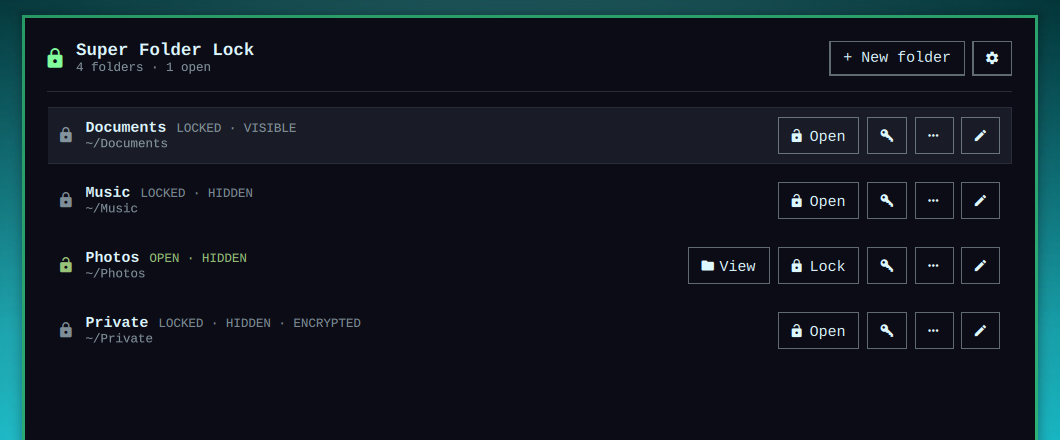
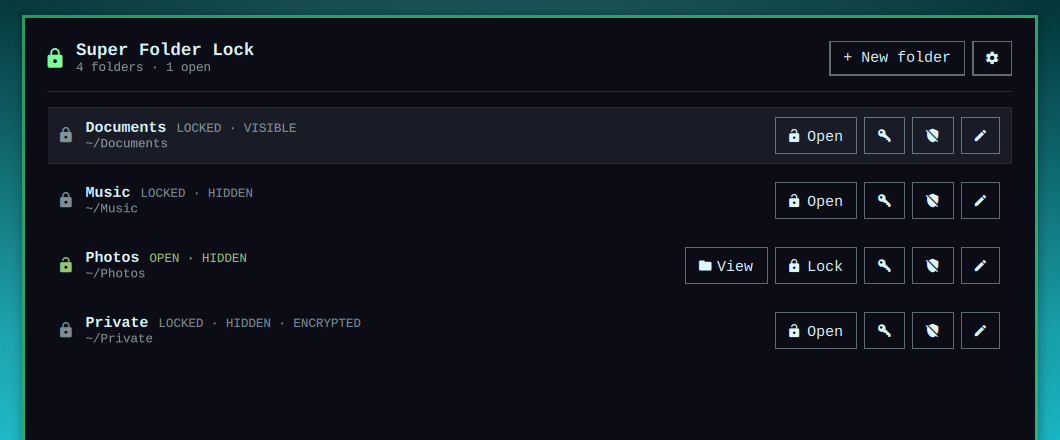
README for 0.2.0: new recordings and screenshots, updated text

diff --git a/README.md b/README.md
@@ -22,7 +22,7 @@ ten files or with a hundred thousand.
 ![A folder with photos is chosen, given a password, and disappears from its place](docs/demo/hide.gif)
 
 **Type its password and it is back.** The window asks for your system password before it lists anything;
-then each folder opens with its own. Opening it shows it in Files, where it was, with everything in it.
+then each folder opens with its own and, unless you turn that off, shows up in Files with everything in it.
 
 ![The system password opens the window, the folder password opens the folder, and Files shows its photos](docs/demo/unlock.gif)
 
@@ -41,10 +41,10 @@ gocryptfs vault, which only its password opens, on any computer. It hands you a 
 
 ![An encrypted folder is created, its recovery key is shown, and on the disk its files have unreadable names](docs/demo/encrypt.gif)
 
-**Change your mind whenever you want.** *Remove protection* gives you back a normal folder, with every
-file in it, and takes it off the list. No folder leaves the list while it is still locked.
+**Change your mind whenever you want.** The shield button, *Remove protection*, asks for its
+password and gives you back a normal folder. Only then does it leave the list: nothing stays locked unseen.
 
-![Remove protection asks for the password and the folder is a normal one again](docs/demo/remove.gif)
+![The shield button asks for the password; the folder is a normal one again and is no longer in the list](docs/demo/remove.gif)
 
 ## Two lock types
 
@@ -60,7 +60,7 @@ file in it, and takes it off the list. No folder leaves the list while it is sti
 While locked, a folder of either type can be **Not shown** (it disappears from its place) or
 **Shown, empty** (it stays there with nothing inside).
 
-<p align="center"><img src="docs/screenshots/form.png" alt="The new folder form: folder, lock type, how it looks when locked, password and automatic locking rules" width="640"></p>
+<p align="center"><img src="docs/screenshots/form.png" alt="The new folder form: folder, lock type, how it looks when locked, password, automatic locking rules and whether it is shown after unlocking" width="640"></p>
 
 ## What it does
 
@@ -151,14 +151,14 @@ Double-click to open works with Files (Nautilus).
 
 The rules apply to every folder left on **Default**:
 
-<p align="center"><img src="docs/screenshots/settings.png" alt="The settings page with the default rules" width="640"></p>
+<p align="center"><img src="docs/screenshots/settings.png" alt="The settings page: general options, default rules, when opening and this window" width="640"></p>
 
 | Setting | Default | |
 |---|---|---|
 | No keyboard or mouse for | On, 10 min | 1 min – 2 h |
+| Maximum time open | Off | 5 min – 24 h |
 | Leaving its workspace | On | |
 | Screen locked | On | |
-| Maximum time open | Off | 5 min – 24 h |
 | Show the folder after unlocking it | On | off: it unlocks, and the window stays open |
 | Ask for the password again after | 2 min | 30 s – 1 h |
 | Shortcut to open this window | None | press the keys; one already in use is never taken over |
